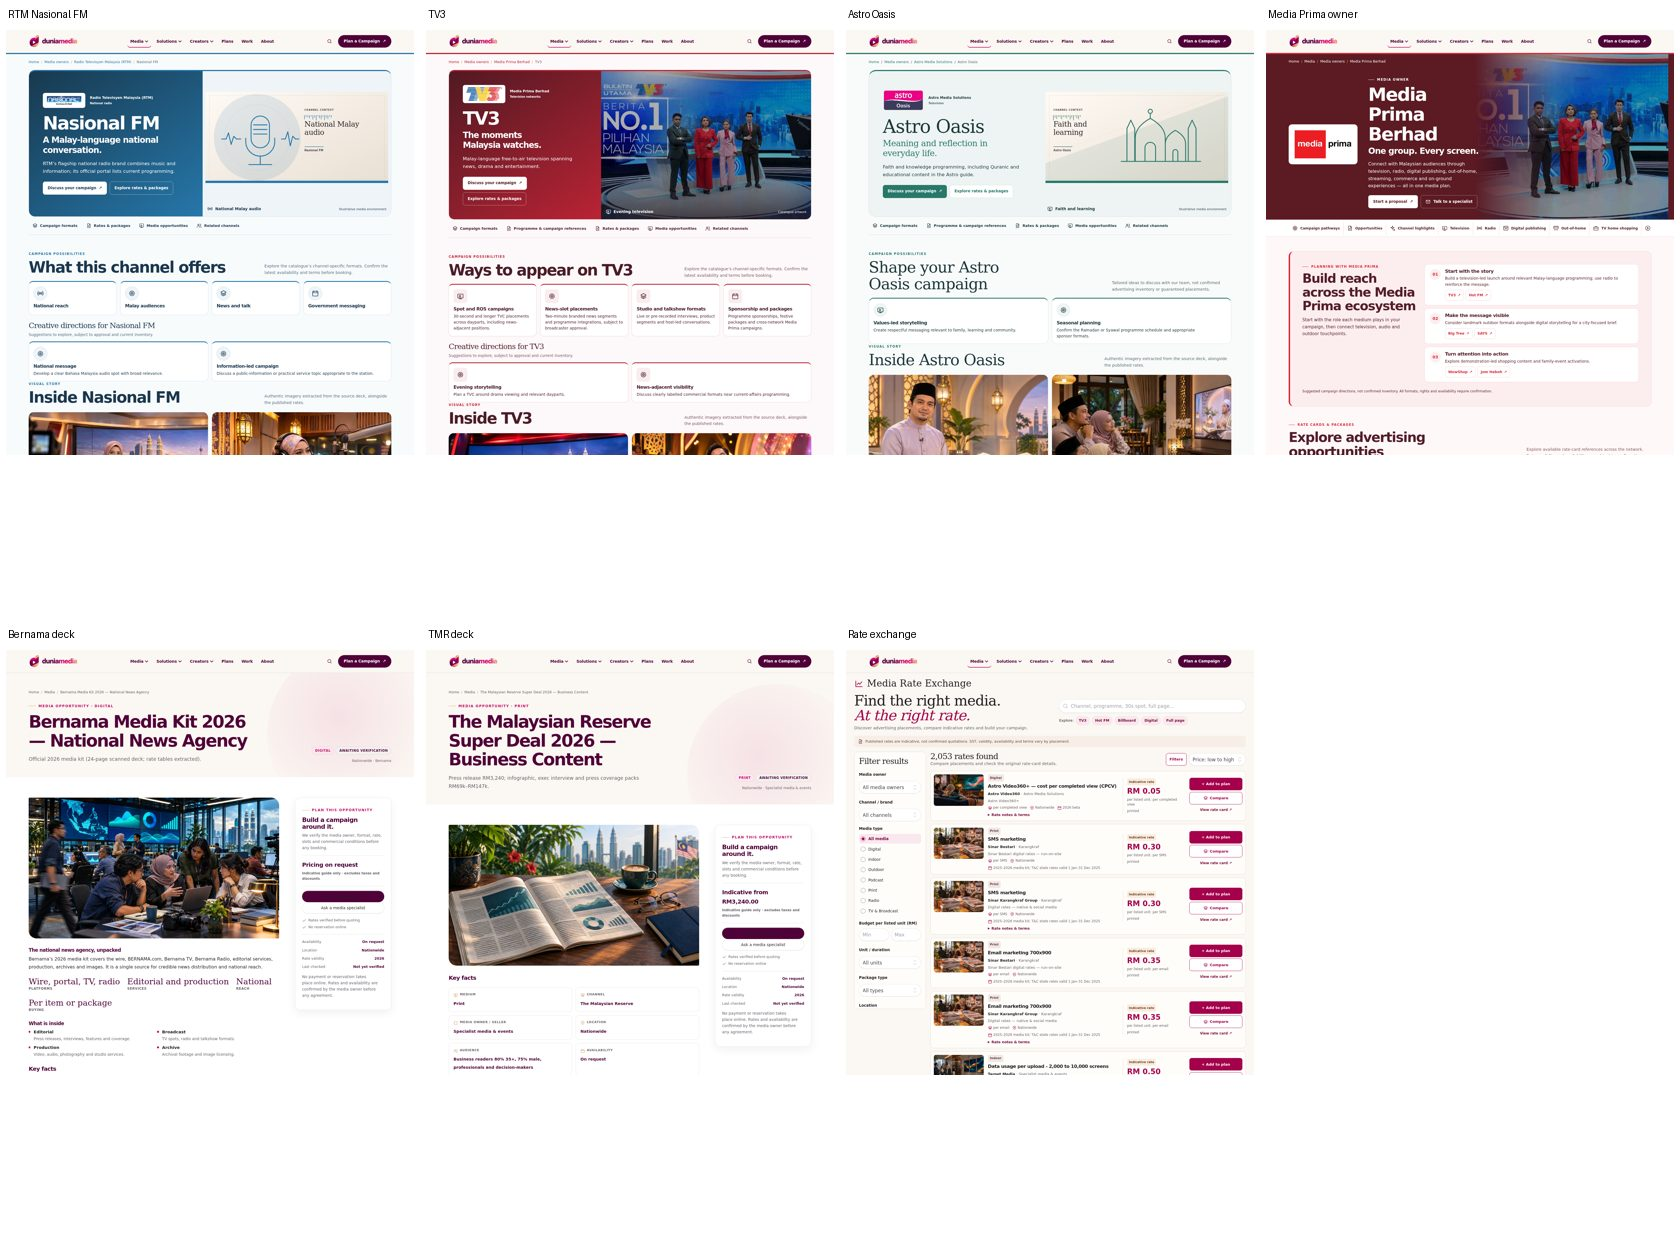
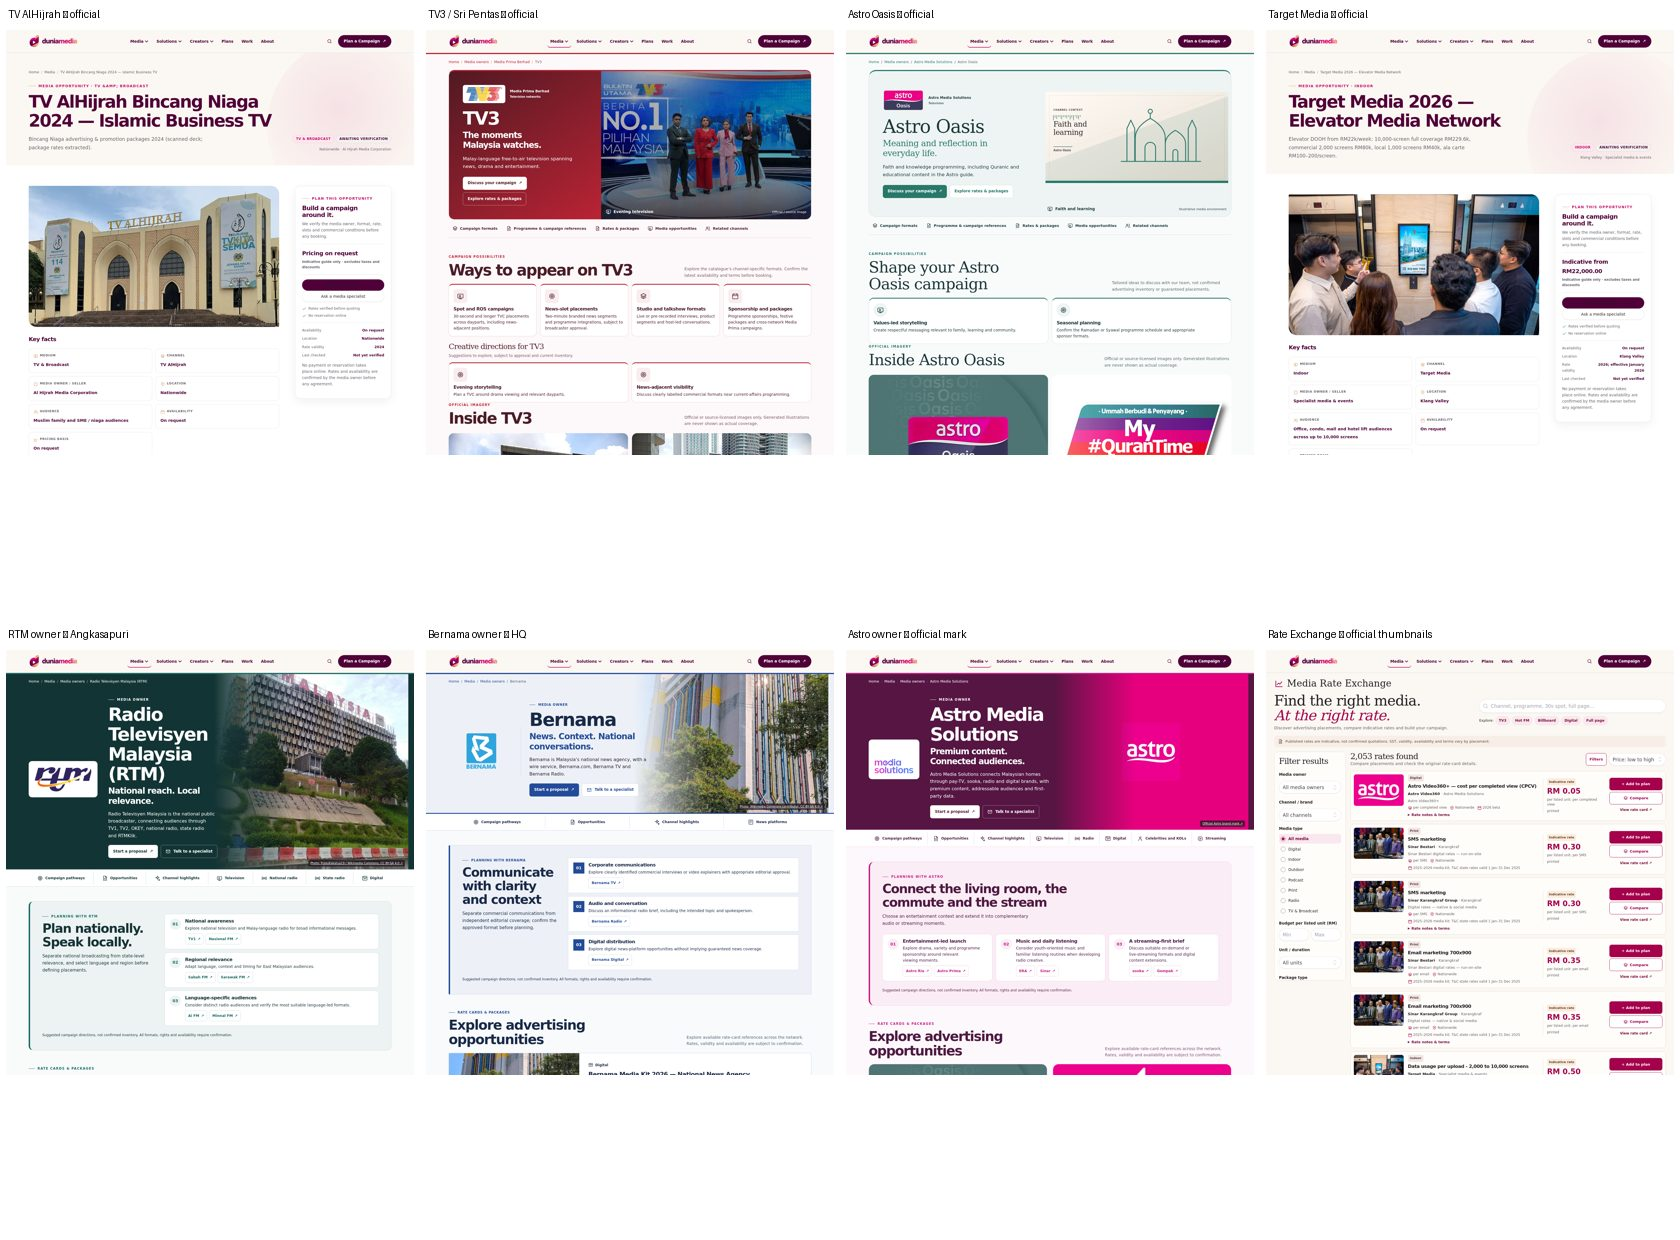
Show credits for owner imagery
Add visible source and licence credits to official owner heroes and refresh the
live proof sheet with the official-imagery pages.

diff --git a/resources/css/owner-editorial.css b/resources/css/owner-editorial.css
@@ -189,7 +189,8 @@
 }
 
 /* A small, legible provenance label for generated media-format illustrations. */
-.owner-editorial-image-credit { position:absolute; z-index:2; bottom:.65rem; right:.75rem; padding:.28rem .5rem; border-radius:4px; color:#fff; background:#241821c9; font-size:.65rem; line-height:1.3; pointer-events:none; }
+.owner-editorial-image-credit { position:absolute; z-index:2; bottom:.65rem; right:.75rem; max-width:calc(100% - 1.5rem); padding:.28rem .5rem; border-radius:4px; color:#fff; background:#241821c9; font-size:.65rem; line-height:1.3; pointer-events:none; }
+.owner-editorial-image-credit--link { pointer-events:auto; text-decoration:underline; text-underline-offset:.12em; }
 .owner-editorial-hero__visual img,.owner-editorial-closing__visual img { object-position:50% 50%; }
 @media(max-width:600px){.owner-editorial-image-credit{bottom:.5rem;right:.6rem}}
 

diff --git a/resources/data/media-owner-editorial.php b/resources/data/media-owner-editorial.php
@@ -12,6 +12,7 @@ return [
         'tagline' => 'One group. Every screen.',
         'intro' => 'Connect with Malaysian audiences through television, radio, digital publishing, out-of-home, streaming, commerce and on-ground experiences — all in one media plan.',
         'hero' => 'assets/home/tv3-newsroom.webp',
+        'hero_credit' => 'Source deck photography',
         'closing_image' => 'assets/home/big-tree-klcc.webp',
         'closing_title' => 'Build a cross-channel proposal',
         'closing_copy' => 'Combine television, radio, digital, outdoor and commerce opportunities into a campaign brief tailored to your goals.',
@@ -53,6 +54,8 @@ return [
         'tagline' => 'Premium content. Connected audiences.',
         'intro' => 'Astro Media Solutions connects Malaysian homes through pay-TV, sooka, radio and digital brands, with premium content, addressable audiences and first-party data.',
         'hero' => 'assets/official/owners/astro.webp',
+        'hero_credit' => 'Official Astro brand mark',
+        'hero_source' => 'https://www.astro.com.my/',
         'closing_image' => 'assets/editorial/owners/astro-campaign.svg',
         'closing_title' => 'Plan across Astro’s platforms',
         'closing_copy' => 'Bring television, streaming, radio and digital formats together around your campaign objectives.',
@@ -87,6 +90,8 @@ return [
         'tagline' => 'National reach. Local relevance.',
         'intro' => 'Radio Televisyen Malaysia is the national public broadcaster, connecting audiences through TV1, TV2, OKEY, national radio, state radio and RTMKlik.',
         'hero' => 'assets/ratecards/img/rtm-tv-radio-2025.webp',
+        'hero_credit' => 'Photo: PulauKakatua19 / Wikimedia Commons, CC BY-SA 4.0',
+        'hero_source' => 'https://commons.wikimedia.org/wiki/File:Angkasapuri_April_30_2018.jpg',
         'closing_image' => 'assets/editorial/owners/rtm-campaign.svg',
         'closing_title' => 'Reach audiences across Malaysia',
         'closing_copy' => 'Plan television, national radio, state stations and digital formats around the communities you want to reach.',
@@ -120,6 +125,8 @@ return [
         'tagline' => 'Meaningful stories. Family audiences.',
         'intro' => 'TV AlHijrah serves Muslim families with talkshows, magazines, religious programming and digital extensions.',
         'hero' => 'assets/ratecards/img/tvalhijrah-bincang-niaga-2024.webp',
+        'hero_credit' => 'Photo: Chainwit. / Wikimedia Commons, CC BY-SA 4.0',
+        'hero_source' => 'https://commons.wikimedia.org/wiki/File:TV_ALHIJRAH_building_in_KL_(May_2022).jpg',
         'closing_image' => 'assets/editorial/owners/al-hijrah-campaign.svg',
         'closing_title' => 'Create a values-led campaign',
         'closing_copy' => 'Discuss talkshows, magazine formats, family programming and seasonal opportunities across television and digital.',
@@ -153,6 +160,8 @@ return [
         'tagline' => 'News. Context. National conversations.',
         'intro' => 'Bernama is Malaysia’s national news agency, with a wire service, Bernama.com, Bernama TV and Bernama Radio.',
         'hero' => 'assets/ratecards/img/bernama-media-kit-2026.webp',
+        'hero_credit' => 'Photo: Wikimedia Commons contributor, CC BY-SA 4.0',
+        'hero_source' => 'https://commons.wikimedia.org/wiki/File:Bernama.jpg',
         'closing_image' => 'assets/editorial/owners/bernama-campaign.svg',
         'closing_title' => 'Bring your story to the right audience',
         'closing_copy' => 'Explore corporate communications, interviews and branded content across news, radio and television.',
@@ -186,6 +195,8 @@ return [
         'tagline' => 'Sarawak stories. Local connections.',
         'intro' => 'TVS is Sarawak’s free-to-air television station, combining local news, entertainment, culture and sport.',
         'hero' => 'assets/ratecards/img/tvs-sponsorship-spot-buy-2026.webp',
+        'hero_credit' => 'Official TVS / Sarawak Media Group logo, CC BY-SA 4.0',
+        'hero_source' => 'https://commons.wikimedia.org/wiki/File:TVS_logo_(2023).png',
         'closing_image' => 'assets/editorial/owners/tvs-campaign.svg',
         'closing_title' => 'Connect with East Malaysian audiences',
         'closing_copy' => 'Plan programme sponsorships, television spots and available outdoor placements around your Sarawak campaign.',
@@ -220,6 +231,8 @@ return [
         'tagline' => 'Stories that travel. Voices that connect.',
         'intro' => 'Star Media Group brings together The Star, mStar, Suria FM and 988 FM, spanning English and Malay publishing with Chinese and Malay radio.',
         'hero' => 'assets/official/owners/star-media.webp',
+        'hero_credit' => 'Official Suria FM and 988 FM station marks',
+        'hero_source' => 'https://suria.my/',
         'closing_image' => 'assets/editorial/owners/star-media-group-campaign.svg',
         'closing_title' => 'Connect publishing and audio',
         'closing_copy' => 'Bring news, lifestyle, radio and digital extensions together in a single campaign brief.',
@@ -254,6 +267,8 @@ return [
         'tagline' => 'Everyday stories. Lasting connections.',
         'intro' => 'Karangkraf connects brands with Malay readers and families through Sinar Harian, SinarPlus, Sinar Bestari, Sinar Daily and the IdeAktif magazine portfolio.',
         'hero' => 'assets/ratecards/img/sinar-harian-20th-anniversary-2026.webp',
+        'hero_credit' => 'Official Sinar Harian editorial photograph',
+        'hero_source' => 'https://www.sinarharian.com.my/',
         'closing_image' => 'assets/editorial/owners/karangkraf-campaign.svg',
         'closing_title' => 'Reach readers across print and digital',
         'closing_copy' => 'Explore news, lifestyle, education, advertorials and social publishing across the catalogue.',
@@ -289,6 +304,8 @@ return [
         'tagline' => 'Be seen where life happens.',
         'intro' => 'Explore the outdoor roster of Seni Jaya, Novus Media, Harumi Jaya and EDSB Outdoor, spanning large-format billboards, transit, street furniture and digital out-of-home.',
         'hero' => 'assets/official/owners/outdoor-billboard.webp',
+        'hero_credit' => 'Photo: Wikimedia Commons contributor, CC BY-SA 3.0',
+        'hero_source' => 'https://commons.wikimedia.org/wiki/File:Advertising_banners_on_a_three-story_building_in_Jitra,_Malaysia.jpg',
         'closing_image' => 'assets/editorial/owners/outdoor-media-campaign.svg',
         'closing_title' => 'Find the right outdoor placement',
         'closing_copy' => 'Tell us your locations, audience and campaign period. We can discuss available billboards, transit and digital out-of-home formats.',
@@ -320,6 +337,8 @@ return [
         'tagline' => 'Big screen. Undivided attention.',
         'intro' => 'Through GSC and TGV, brands can explore big-screen spots, lobby formats and film-linked partnerships for launches, festive campaigns and youth-led releases.',
         'hero' => 'assets/official/owners/cinema-hall.webp',
+        'hero_credit' => 'Photo: Wiki Farazi / Wikimedia Commons, CC0',
+        'hero_source' => 'https://commons.wikimedia.org/wiki/File:Hall_5_of_GSC_IOI_Mall_Damansara,_Kota_Damansara_20260411_121410.jpg',
         'closing_image' => 'assets/editorial/owners/cinema-ads-campaign.svg',
         'closing_title' => 'Make your next campaign cinematic',
         'closing_copy' => 'Explore cinema spots, lobby inventory and film-linked packages with GSC and TGV, subject to availability.',
@@ -389,6 +408,8 @@ return [
         'tagline' => 'Every journey. Another touchpoint.',
         'intro' => 'KTM and KL Sentral connect brands with commuters across the Klang Valley and northern rail corridors, through station domination, train wraps and platform formats.',
         'hero' => 'assets/ratecards/img/ktm-train-kl-sentral-ads-2026.webp',
+        'hero_credit' => 'Photo: Two hundred percent / Wikimedia Commons, CC BY-SA 2.5',
+        'hero_source' => 'https://commons.wikimedia.org/wiki/File:Class_83_KTM_Komuter_train,_Kuala_Lumpur.jpg',
         'closing_image' => 'assets/editorial/owners/ktm-campaign.svg',
         'closing_title' => 'Build a commuter-focused campaign',
         'closing_copy' => 'Discuss train wraps, station panels, pillars, turnstiles and digital formats across KTM and KL Sentral.',

diff --git a/resources/views/pages/owners/_editorial.blade.php b/resources/views/pages/owners/_editorial.blade.php
@@ -89,7 +89,13 @@
             <div class="owner-editorial-hero__visual {{ $hero ? '' : 'owner-editorial-hero__visual--network' }} {{ $heroArtwork ? 'owner-editorial-hero__visual--artwork' : '' }}">
                 @if ($hero)
                     <img src="{{ $image::url($hero) }}" @if ($heroSrcset) srcset="{{ $heroSrcset }}" sizes="(max-width: 600px) 100vw, (max-width: 900px) 50vw, 46vw" @endif alt="{{ $heroIllustrated ? 'Illustrative media environment' : ($editorial['hero_alt'] ?? ($heroArtwork ? $owner['name'].' editorial artwork' : '')) }}" fetchpriority="high" decoding="async">
-                    @if ($heroIllustrated)<span class="owner-editorial-image-credit">Illustrative media environment</span>@elseif ($heroArtwork)<span class="owner-editorial-image-credit">Illustration</span>@endif
+                    @if ($heroIllustrated)<span class="owner-editorial-image-credit">Illustrative media environment</span>@elseif ($heroArtwork)<span class="owner-editorial-image-credit">Illustration</span>@elseif (! empty($editorial['hero_credit']))
+                        @if (! empty($editorial['hero_source']))
+                            <a class="owner-editorial-image-credit owner-editorial-image-credit--link" href="{{ $editorial['hero_source'] }}" target="_blank" rel="noopener noreferrer">{{ $editorial['hero_credit'] }} ↗</a>
+                        @else
+                            <span class="owner-editorial-image-credit">{{ $editorial['hero_credit'] }}</span>
+                        @endif
+                    @endif
                 @else
                     <div class="owner-editorial-visual-network" aria-hidden="true">
                         <x-dm-icon :name="$editorial['visual_icon'] ?? 'layers'" :size="54"/>
